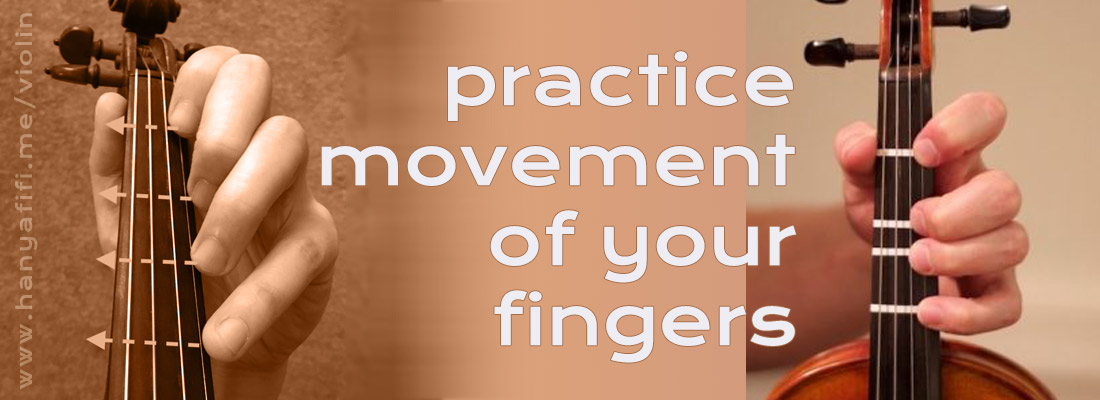
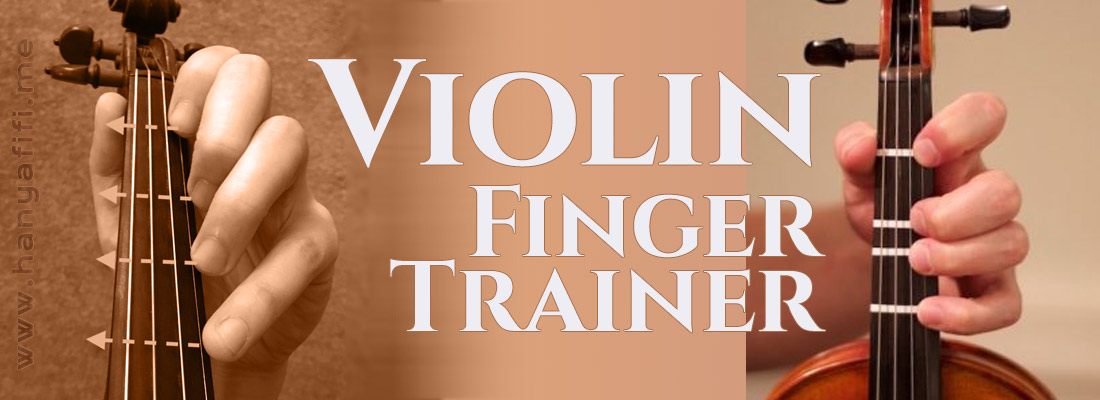
MODIFIED: content and style.css

Changed region(s): [[0.2782, 0.12, 0.7727, 0.93], [0.0, 0.03, 0.0309, 0.96]]

diff --git a/index.html b/index.html
@@ -4,7 +4,9 @@
 <head>
     <meta charset="UTF-8">
     <meta name="viewport" content="width=device-width, initial-scale=1, shrink-to-fit=no">
-    <link rel="stylesheet" href="https://stackpath.bootstrapcdn.com/bootstrap/4.5.2/css/bootstrap.min.css" integrity="sha384-JcKb8q3iqJ61gNV9KGb8thSsNjpSL0n8PARn9HuZOnIxN0hoP+VmmDGMN5t9UJ0Z" crossorigin="anonymous">
+    <link rel="stylesheet" href="https://stackpath.bootstrapcdn.com/bootstrap/4.5.2/css/bootstrap.min.css"
+        integrity="sha384-JcKb8q3iqJ61gNV9KGb8thSsNjpSL0n8PARn9HuZOnIxN0hoP+VmmDGMN5t9UJ0Z" crossorigin="anonymous">
+    <link href="https://fonts.googleapis.com/css2?family=Cinzel:wght@400;900&display=swap" rel="stylesheet">
     <link rel="stylesheet" href="./dist/style.css">
 
     <title>Hany Afifi Violin Finger Trainer</title>
@@ -12,69 +14,81 @@
 
 <body>
 
-    <div class="section">
-        <header>
-            <h1>Violin Finger Trainer</h1>
-            <p>Lets start with simple </p>
-        </header>
+    <header class="container" >
+        <h1>Hany Afifi Violin Finger Trainer</h1>
+        <img src="./img/finger-practice.jpg" alt="">
+    </header>
 
-    </div>
-
-    <div class="youtube">
-        <h3>Playing Credits go to: <em>TheHotViolinist</em> </h3>
-        <iframe width="400" height="225" src="https://www.youtube.com/embed/Aev_iseFYK0" frameborder="0"
-            allow="accelerometer; autoplay; encrypted-media; gyroscope; picture-in-picture" allowfullscreen></iframe>
-    </div>
-
-    <div class="Instructions">
-        <h1>Lets play A Major Scale (A-B-C-D-E-F-G-A) forward and backward </h1>
-        <div class="strings">
-            <h2>There are 4 strings on the violin, from high to low: E, A, D, and G</h2>
-            <h3>Tab the finger position imagine you hold a real violin</h3>
-        </div>
+    <main>
+        <section class="container" id="youtube">
 
 
+            <iframe width="400" height="225" src="https://www.youtube.com/embed/Aev_iseFYK0" frameborder="0"
+                allow="accelerometer; autoplay; encrypted-media; gyroscope; picture-in-picture"
+                allowfullscreen></iframe>
+            <quote>Playing Credits go to: <em>TheHotViolinist</em> </quote>
 
 
-        <div  class="container" id="fingerboard">
-            <div class="row" id="g">
-                <div class="col"></div>
-                <div class="col"></div>
-                <div class="col"></div>
-                <div class="col"></div>
+        </section>
+
+        <section class="container" id="instructions">
+            <ul>
+                <li>Lets play A Major Scale (A-B-C-D-E-F-G-A) forward and backward</li>
+                <li>There are 4 strings on the violin, from high to low: E, A, D, and G</li>
+                <li>Tab the finger position imagine you hold a real violin</li>
+            </ul>
+        </section>
+        <div class="divider"></div>
+
+        <section class="container-fluid" id="violin">
+            <div class="container-fluid" id="fingerboard">
+                <div class="row" id="g">
+                    <div class="col"></div>
+                    <div class="col"></div>
+                    <div class="col"></div>
+                    <div class="col"></div>
+                </div>
+                <div class="row" id="d">
+                    <div class="col"></div>
+                    <div class="col"></div>
+                    <div class="col"></div>
+                    <div class="col"></div>
+                </div>
+                <div class="row" id="a">
+                    <div class="col"></div>
+                    <div class="col"></div>
+                    <div class="col"></div>
+                    <div class="col"></div>
+                </div>
+                <div class="row" id="e">
+                    <div class="col"></div>
+                    <div class="col"></div>
+                    <div class="col"></div>
+                    <div class="col"></div>
+                </div>
             </div>
-            <div class="row" id="d">
-                <div class="col"></div>
-                <div class="col"></div>
-                <div class="col"></div>
-                <div class="col"></div>
-            </div>
-            <div class="row" id="a">
-                <div class="col"></div>
-                <div class="col"></div>
-                <div class="col"></div>
-                <div class="col"></div>
-            </div>
-            <div class="row" id="e">
-                <div class="col"></div>
-                <div class="col"></div>
-                <div class="col"></div>
-                <div class="col"></div>
-            </div>
 
-        </div>
+        </section>
+        <div class="divider"></div>
+    </main>
+    <footer>
 
-        <div class="bowing">
-        </div>
-
-    </div>
+    </footer>
 
 
 
 
-    <script src="https://code.jquery.com/jquery-3.5.1.slim.min.js" integrity="sha384-DfXdz2htPH0lsSSs5nCTpuj/zy4C+OGpamoFVy38MVBnE+IbbVYUew+OrCXaRkfj" crossorigin="anonymous"></script>
-    <script src="https://cdn.jsdelivr.net/npm/popper.js@1.16.1/dist/umd/popper.min.js" integrity="sha384-9/reFTGAW83EW2RDu2S0VKaIzap3H66lZH81PoYlFhbGU+6BZp6G7niu735Sk7lN" crossorigin="anonymous"></script>
-    <script src="https://stackpath.bootstrapcdn.com/bootstrap/4.5.2/js/bootstrap.min.js" integrity="sha384-B4gt1jrGC7Jh4AgTPSdUtOBvfO8shuf57BaghqFfPlYxofvL8/KUEfYiJOMMV+rV" crossorigin="anonymous"></script>
+
+
+    <script src="https://code.jquery.com/jquery-3.5.1.slim.min.js"
+        integrity="sha384-DfXdz2htPH0lsSSs5nCTpuj/zy4C+OGpamoFVy38MVBnE+IbbVYUew+OrCXaRkfj"
+        crossorigin="anonymous"></script>
+    <script src="https://cdn.jsdelivr.net/npm/popper.js@1.16.1/dist/umd/popper.min.js"
+        integrity="sha384-9/reFTGAW83EW2RDu2S0VKaIzap3H66lZH81PoYlFhbGU+6BZp6G7niu735Sk7lN"
+        crossorigin="anonymous"></script>
+    <script src="https://stackpath.bootstrapcdn.com/bootstrap/4.5.2/js/bootstrap.min.js"
+        integrity="sha384-B4gt1jrGC7Jh4AgTPSdUtOBvfO8shuf57BaghqFfPlYxofvL8/KUEfYiJOMMV+rV"
+        crossorigin="anonymous"></script>
     <script src="./dist/main.js"></script>
 </body>
 

diff --git a/dist/style.css b/dist/style.css
@@ -5,13 +5,46 @@
 }
 
 body {
-	background: #fff;
+	background: #964b00;
+	font-family: 'Cinzel', serif;
+	background: url(../img/violin-all.png);
+	background-repeat: no-repeat;
+	background-attachment: fixed;
+	background-position: 10% 50%;
+	background-size: auto;
+}
+
+main {
 }
 
 div#fingerboard {
-	background-image: url(../img/fingerboard.jpg);
-	background-position: center;
-	background-size: cover;
+	background: linear-gradient(to bottom, #b28b5c, #964b00 10%, #a37c4d, #964b00 95%, #b28b5c);
 	height: 40vh;
 	width: 100%;
+	border-top: 5px solid #964b00;
+	border-bottom: 5px solid #964b00;
+}
+
+.container {
+	margin-top: 3rem;
+}
+
+.divider {
+	height: 10px;
+	margin: 50px auto;
+}
+
+iframe {
+	display: block;
+	margin: 2rem auto;
+}
+
+quote {
+	display: block;
+	text-align: center;
+}
+
+#instructions ul {
+	font-size: 1.9rem;
+	list-style: none;
 }
